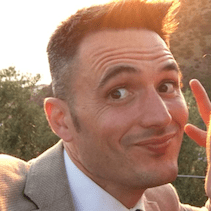
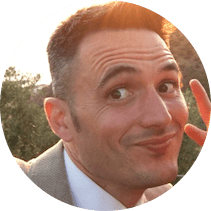
rebuilding site Sun 22 Oct 2017 11:07:43 CEST

diff --git a/about/index.html b/about/index.html
@@ -1055,13 +1055,15 @@ section.main .content .markdown pre, section.main .content .markdown pre code {
             <div class="markdown">
                 
     
-    <p>Hi! My name is Sergi Barroso, I&rsquo;m an 80&rsquo;s geek born in Barcelona but actually living in Munich [ and hopefully in Japan sometime :) ]</p>
+    <p><img alt="Sergi Barroso" src="https://lionclan.org/img/profile.png" style="width: 200px; float:left; margin: 0 20px 0 0"/></p>
+
+<p>Hi! My name is Sergi Barroso, I&rsquo;m an 80&rsquo;s geek born in Barcelona but actually living in Munich (and hopefully in Japan some day :D )</p>
 
 <p>I&rsquo;m currently a Cloud Systems Developer at <a href="http://www.cloudreach.com">Cloudreach</a>.</p>
 
-<p>I&rsquo;m passionate about computers/software/games/sports/Japan/and probably something else. System Administrator since 2002, Linux enthusiats since then &hellip; (<a href="https://www.gentoo.org">Gentoo</a> is your distro believe me, if you are not feeling brave enough <a href="https://www.debian.org">Debian</a> is also a nice one) and somehow I ended using <a href="https://www.apple.com/macos">macOS</a>.</p>
+<p>I&rsquo;m passionate about computers, software, games, sports, Japan and probably something else. System Administrator since 2002, Linux enthusiat since then &hellip; (<a href="https://www.gentoo.org">Gentoo</a> is your distro believe me, if you are not feeling brave enough <a href="https://www.debian.org">Debian</a> is also a nice one) and somehow I ended using <a href="https://www.apple.com/macos">macOS</a>, I yes, because Apple laptops are quite nice :P</p>
 
-<p>In this page you will fine some post about any new technologies that I managed to embrace, or simply learn enough to write something useful :D</p>
+<p>In this page you will fine some post about any new technologies I managed to embrace, or simply learn enough to write something useful (or not).</p>
 
 <p>Have fun!</p>
 
